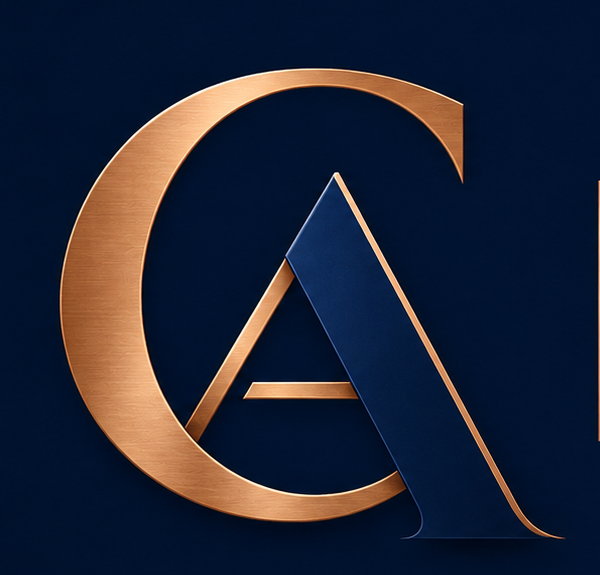
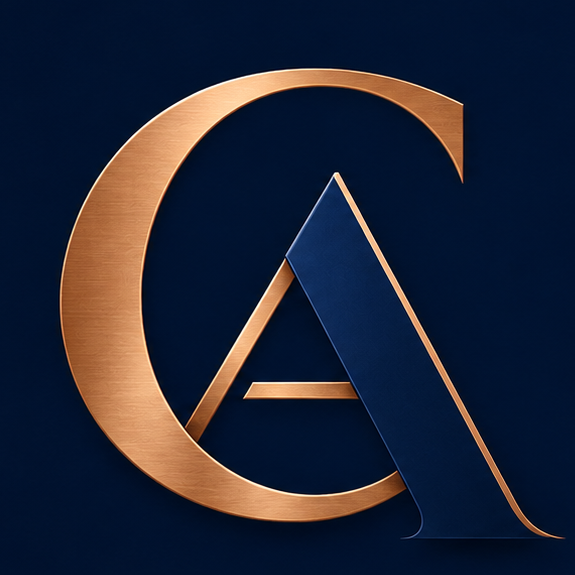
V3 Patch

diff --git a/index.html b/index.html
@@ -1,16 +1,118 @@
-<!doctype html><html lang="en"><head><meta charset="utf-8"><meta name="viewport" content="width=device-width,initial-scale=1"><title>Codex Analytics | Market Scanner</title><link rel="stylesheet" href="styles.css"></head><body>
-<header class="topbar"><div class="brand"><img src="codex-ca.png" class="ca"><span class="brandline"></span><div><img src="codex-word.png" class="word"><div class="analytics">ANALYTICS</div></div></div><div class="pipe"></div><div class="tool"><b>Market Scanner</b><small>Focused research, not clutter</small></div><div class="spacer"></div><div class="budget" id="budgetChip">API 30/30</div><button class="btn ghost" data-nav="settings">Settings</button></header>
-<nav class="nav"><button class="active" data-nav="scan">Scan</button><button data-nav="watchlist">Watchlist <span id="watchCount">0</span></button><button data-nav="history">History</button><button data-nav="settings">Settings</button></nav>
-<main>
-<section id="scanView" class="view active"><div id="builder" class="builder"><div class="hero"><span class="kicker">START A SCAN</span><h1>What are you looking for?</h1><p>Choose a focused strategy. Codex narrows fundamentals first, then performs technical analysis locally to conserve API calls.</p></div>
-<div class="mode-grid"><button class="mode-card" data-mode="best"><b>Best Opportunities</b><span>Balanced quality, value, trend and momentum.</span></button><button class="mode-card featured" data-mode="gap"><b>Gap-Fill Reversal</b><span>Profitable pullbacks approaching an open prior gap-up.</span></button><button class="mode-card" data-mode="early"><b>Early Golden Cross</b><span>Catch SMA50 convergence before the cross occurs.</span></button><button class="mode-card" data-mode="custom"><b>Build My Scan</b><span>Answer a short quiz and let Codex translate your choices.</span></button></div>
-<div id="savedProfiles" class="saved-profiles"></div><div id="quizPanel" class="panel hidden"></div><details class="advanced"><summary>Advanced filters</summary><div class="form-grid">
-<label>Min price <input id="minPrice" type="number" value="2" step=".01"></label><label>Min market cap ($M) <input id="minMarketCap" type="number" value="100"></label><label>Max P/E <input id="maxPE" type="number" placeholder="Any"></label><label>Min avg volume <input id="minAvgVolume" type="number" value="100000"></label><label>Max beta <input id="maxBeta" type="number" step=".1" placeholder="Any"></label><label>Min ROE % <input id="minROE" type="number" step=".1" placeholder="Any"></label><label>Positive FCF <select id="fcf"><option value="any">Not required</option><option value="positive">Required</option></select></label><label>Dividend <select id="dividend"><option value="any">Any</option><option value="yes">Payer only</option></select></label></div></details>
-<div id="scanSummary" class="scan-summary hidden"></div></div>
-<div id="runArea" class="hidden"><div class="results-head"><div><button class="link" id="newScan">← New scan</button><h2 id="resultTitle">Results</h2><p id="statusText"></p></div><div class="actions"><select id="resultGroup"><option value="match">Matches</option><option value="near">Near Matches</option><option value="all">All Analyzed</option></select><button class="btn ghost" id="exportBtn">Export CSV</button></div></div><div class="progress"><span id="progressBar"></span></div><div id="resultCards" class="result-cards"></div></div></section>
-<section id="watchlistView" class="view"><div class="page-title"><span class="kicker">SAVED RESEARCH</span><h1>Watchlist</h1><p>Stocks you want to revisit without rediscovering them from scratch.</p></div><div id="watchlistCards" class="result-cards"></div></section>
-<section id="historyView" class="view"><div class="page-title"><span class="kicker">RECENT ACTIVITY</span><h1>Scan History</h1><p>Your recent scan configurations and match counts are stored locally on this device.</p></div><div id="historyList" class="history-list"></div></section>
-<section id="settingsView" class="view"><div class="page-title"><span class="kicker">SETTINGS</span><h1>Business Quant</h1></div><div class="panel settings"><label>API key <input id="apiKey" type="password" placeholder="Paste your Business Quant key"></label><div class="row"><button class="btn primary" id="saveKey">Save & Test</button><button class="btn ghost" id="clearCache">Clear cached data</button></div><p id="keyStatus" class="muted"></p><hr><h3>Free-tier budget</h3><p>Codex tracks calls made by this browser today. Business Quant may count other calls separately.</p><div class="budget-large" id="budgetLarge"></div></div></section>
-</main>
-<dialog id="detailDialog"><button class="close" id="closeDetail">×</button><div id="detailContent"></div></dialog>
-<script src="api.js"></script><script src="scanner.js"></script><script src="app.js"></script></body></html>
+<!doctype html>
+<html lang="en">
+<head>
+  <meta charset="utf-8">
+  <meta name="viewport" content="width=device-width, initial-scale=1">
+  <meta name="theme-color" content="#041226">
+  <title>Codex Analytics | Market Scanner</title>
+  <!-- External stylesheet plus a complete inline fallback. The inline copy keeps GitHub Pages usable even if CSS is stale/missed. -->
+  <link rel="stylesheet" href="./styles.css?v=4.1.1">
+  <style id="codex-style-fallback">:root{--bg:#041226;--panel:#091a31;--panel2:#102640;--line:#24425e;--text:#f6f0e8;--muted:#aeb7c3;--accent:#c17b3d;--accent2:#e0a568;--ok:#7fc49a;--danger:#d78585;--shadow:0 18px 45px rgba(0,0,0,.34)}*{box-sizing:border-box}body{margin:0;background:radial-gradient(circle at 70% -20%,#17375a 0,transparent 40%),var(--bg);color:var(--text);font:14px/1.45 Inter,Segoe UI,Arial,sans-serif;min-height:100vh}.topbar{height:82px;display:flex;align-items:center;padding:12px 24px;border-bottom:1px solid var(--line);background:rgba(4,18,38,.94);position:sticky;top:0;z-index:10}.brand{display:flex;align-items:center;gap:12px}.ca{width:54px;height:54px;object-fit:contain}.word{width:105px}.brandline{height:50px;width:1px;background:linear-gradient(var(--accent2),var(--accent))}.analytics{font-size:9px;letter-spacing:4px;text-align:center;color:var(--accent2)}.pipe{height:38px;width:1px;background:var(--line);margin:0 18px}.tool{display:flex;flex-direction:column}.tool b{font-size:18px}.tool small,.muted{color:var(--muted)}.spacer{flex:1}.budget,.budget-large{border:1px solid rgba(193,123,61,.5);background:#0c2039;color:var(--accent2);padding:8px 12px;border-radius:999px;margin-right:10px}.budget-large{display:inline-block;font-size:18px}.nav{display:flex;gap:4px;padding:10px 24px;border-bottom:1px solid var(--line);background:#06152a}.nav button{background:none;border:0;color:var(--muted);padding:9px 14px;border-radius:8px;cursor:pointer}.nav button.active{background:var(--panel2);color:var(--text)}main{max-width:1240px;margin:auto;padding:28px}.view{display:none}.view.active{display:block}.hero,.page-title{max-width:760px;margin-bottom:24px}.kicker{color:var(--accent2);font-size:11px;font-weight:800;letter-spacing:2px}h1{font-size:34px;margin:6px 0}h2{margin:4px 0}.hero p,.page-title p{color:var(--muted);font-size:16px}.mode-grid{display:grid;grid-template-columns:repeat(4,1fr);gap:14px}.mode-card{min-height:135px;text-align:left;padding:20px;border-radius:16px;border:1px solid var(--line);background:linear-gradient(145deg,var(--panel),var(--panel2));color:var(--text);cursor:pointer;box-shadow:var(--shadow)}.mode-card:hover,.mode-card.selected{border-color:var(--accent);transform:translateY(-2px)}.mode-card.featured:after{content:'PERSONAL STRATEGY';display:block;margin-top:12px;color:var(--accent2);font-size:9px;letter-spacing:1px}.mode-card b{display:block;font-size:18px;margin-bottom:8px}.mode-card span{color:var(--muted)}.panel,.advanced,.scan-summary{margin-top:18px;background:rgba(9,26,49,.88);border:1px solid var(--line);border-radius:16px;padding:20px}.hidden{display:none!important}.quiz-step{margin-bottom:22px}.quiz-step h3{margin:0 0 10px}.choices{display:flex;gap:8px;flex-wrap:wrap}.choice{border:1px solid var(--line);background:#07182e;color:var(--text);border-radius:10px;padding:10px 13px;cursor:pointer}.choice.on{border-color:var(--accent2);background:#182f49}.form-grid{display:grid;grid-template-columns:repeat(4,1fr);gap:12px;margin-top:14px}label{display:flex;flex-direction:column;gap:6px;color:var(--muted)}input,select{background:#06152a;border:1px solid var(--line);color:var(--text);border-radius:9px;padding:10px;width:100%}.btn{border:0;border-radius:10px;padding:10px 14px;cursor:pointer;font-weight:700}.btn.primary{background:linear-gradient(135deg,var(--accent),var(--accent2));color:#07111f}.btn.ghost{background:var(--panel2);border:1px solid var(--line);color:var(--text)}.link{background:0;border:0;color:var(--accent2);cursor:pointer;padding:0}.scan-summary{display:flex;justify-content:space-between;gap:20px;align-items:center}.summary-tags{display:flex;gap:7px;flex-wrap:wrap}.tag{background:#132c48;border:1px solid var(--line);padding:5px 8px;border-radius:999px;color:#d8e1eb;font-size:12px}.results-head{display:flex;justify-content:space-between;align-items:end;margin-bottom:14px}.actions,.row{display:flex;gap:8px;align-items:center}.progress{height:4px;background:#112b45;border-radius:10px;overflow:hidden;margin-bottom:16px}.progress span{display:block;height:100%;width:0;background:linear-gradient(90deg,var(--accent),var(--accent2))}.result-cards{display:grid;gap:10px}.stock-card{display:grid;grid-template-columns:1.3fr .65fr .8fr .8fr .8fr 1fr auto;align-items:center;gap:12px;padding:14px 16px;border:1px solid var(--line);background:var(--panel);border-radius:14px}.stock-card:hover{border-color:#3a5c7a}.ticker{font-size:18px;font-weight:900}.company{color:var(--muted);font-size:12px}.score{font-size:22px;font-weight:900;color:var(--accent2)}.metric small{display:block;color:var(--muted);font-size:10px;text-transform:uppercase}.metric b{font-size:14px}.pill{border-radius:999px;padding:5px 8px;font-size:11px;display:inline-block}.pill.good{background:#17392d;color:#a7e4bd}.pill.warn{background:#493617;color:#f0cf8d}.watch{font-size:21px;background:0;border:0;color:var(--accent2);cursor:pointer}.history-item{background:var(--panel);border:1px solid var(--line);border-radius:14px;padding:15px;margin-bottom:10px;display:flex;justify-content:space-between}.settings{max-width:680px}.settings hr{border:0;border-top:1px solid var(--line);margin:22px 0}dialog{width:min(930px,94vw);max-height:90vh;overflow:auto;background:var(--panel);color:var(--text);border:1px solid var(--line);border-radius:18px;padding:26px;box-shadow:var(--shadow)}dialog::backdrop{background:rgba(0,0,0,.72)}.close{float:right;border:0;background:0;color:var(--muted);font-size:28px;cursor:pointer}.detail-grid{display:grid;grid-template-columns:repeat(3,1fr);gap:10px}.detail-box{background:#07182e;border:1px solid var(--line);border-radius:12px;padding:12px}.score-grid{display:grid;grid-template-columns:repeat(6,1fr);gap:8px;margin:16px 0}.subscore{background:#07182e;padding:10px;border-radius:10px;text-align:center}.subscore b{display:block;font-size:20px;color:var(--accent2)}.why{background:#0b2038;border-left:3px solid var(--accent);padding:14px;border-radius:8px;margin:15px 0}.checks{display:grid;grid-template-columns:1fr 1fr;gap:6px}.ok{color:var(--ok)}.bad{color:var(--danger)}canvas{width:100%;height:240px;background:#06152a;border:1px solid var(--line);border-radius:12px}.empty{color:var(--muted);padding:35px;text-align:center;border:1px dashed var(--line);border-radius:14px}@media(max-width:900px){.mode-grid{grid-template-columns:1fr 1fr}.form-grid{grid-template-columns:1fr 1fr}.stock-card{grid-template-columns:1fr 1fr 1fr}.stock-card .metric:nth-child(n+5){display:none}.score-grid{grid-template-columns:repeat(3,1fr)}.tool{display:none}}@media(max-width:560px){main{padding:18px}.mode-grid{grid-template-columns:1fr}.topbar{padding:10px 14px}.brand .word,.analytics,.brandline{display:none}.form-grid{grid-template-columns:1fr}.scan-summary,.results-head{align-items:stretch;flex-direction:column}.stock-card{grid-template-columns:1.5fr .7fr .7fr}.budget{font-size:11px}.nav{padding:8px}.detail-grid{grid-template-columns:1fr}.score-grid{grid-template-columns:repeat(2,1fr)}}
+.saved-profiles{display:flex;gap:8px;flex-wrap:wrap;margin:16px 0}.profile-chip{border:1px solid var(--line);background:#07182e;color:var(--text);border-radius:999px;padding:8px 11px;cursor:pointer}.profile-chip:hover{border-color:var(--accent)}
+
+/* v4.1 resilient shell patch */
+html{background:#041226;color-scheme:dark}body:before{content:"";position:fixed;inset:0;pointer-events:none;z-index:-1;background-image:radial-gradient(rgba(224,165,104,.09) 1px,transparent 1px);background-size:22px 22px;mask-image:linear-gradient(to bottom,rgba(0,0,0,.6),transparent 78%)}
+img{max-width:100%;display:block}.brand{min-width:222px;overflow:hidden}.brand .ca{flex:0 0 54px;width:54px!important;height:54px!important;border-radius:8px}.brand .word{width:108px!important;height:auto!important;max-height:28px;object-fit:contain}.topbar{overflow:hidden}.topbar>*{min-width:0}.mode-card,.btn,.choice,.profile-chip,.nav button{font-family:inherit}.mode-card{transition:transform .16s ease,border-color .16s ease,box-shadow .16s ease}.mode-card:hover{box-shadow:0 22px 50px rgba(0,0,0,.4)}.advanced summary{cursor:pointer;font-weight:800;color:var(--text)}.scan-summary strong{font-size:16px}.result-cards{min-height:80px}.stock-card{overflow:hidden}.stock-card>*{min-width:0}.company{white-space:nowrap;overflow:hidden;text-overflow:ellipsis}.settings input{font-family:monospace}.saved-profiles:empty{display:none}.nav span{display:inline-flex;min-width:18px;justify-content:center;border-radius:999px;background:#132c48;padding:1px 5px;font-size:10px}.view{animation:fadeIn .14s ease}@keyframes fadeIn{from{opacity:.3;transform:translateY(2px)}to{opacity:1;transform:none}}
+@media(max-width:720px){.topbar{height:auto;min-height:74px;flex-wrap:wrap;gap:8px}.budget{order:3}.brand{min-width:auto}.pipe{display:none}.nav{overflow-x:auto}.nav button{white-space:nowrap}}
+</style>
+</head>
+<body style="margin:0;background:#041226;color:#f6f0e8;font-family:Inter,'Segoe UI',Arial,sans-serif;min-height:100vh">
+  <header class="topbar">
+    <div class="brand" aria-label="Codex Analytics">
+      <img src="./codex-ca.png?v=4.1.1" class="ca" alt="CA" width="54" height="54">
+      <span class="brandline" aria-hidden="true"></span>
+      <div>
+        <img src="./codex-word.png?v=4.1.1" class="word" alt="Codex" width="108" height="27">
+        <div class="analytics">ANALYTICS</div>
+      </div>
+    </div>
+    <div class="pipe" aria-hidden="true"></div>
+    <div class="tool"><b>Market Scanner</b><small>Focused research, not clutter</small></div>
+    <div class="spacer"></div>
+    <div class="budget" id="budgetChip">API 30/30</div>
+    <button class="btn ghost" data-nav="settings">Settings</button>
+  </header>
+
+  <nav class="nav" aria-label="Primary navigation">
+    <button class="active" data-nav="scan">Scan</button>
+    <button data-nav="watchlist">Watchlist <span id="watchCount">0</span></button>
+    <button data-nav="history">History</button>
+    <button data-nav="settings">Settings</button>
+  </nav>
+
+  <main>
+    <section id="scanView" class="view active">
+      <div id="builder" class="builder">
+        <div class="hero">
+          <span class="kicker">START A SCAN</span>
+          <h1>What are you looking for?</h1>
+          <p>Choose a focused strategy. Codex narrows fundamentals first, then performs technical analysis locally to conserve API calls.</p>
+        </div>
+
+        <div class="mode-grid">
+          <button class="mode-card" data-mode="best"><b>Best Opportunities</b><span>Balanced quality, value, trend and momentum.</span></button>
+          <button class="mode-card featured" data-mode="gap"><b>Gap-Fill Reversal</b><span>Profitable pullbacks approaching an open prior gap-up.</span></button>
+          <button class="mode-card" data-mode="early"><b>Early Golden Cross</b><span>Catch SMA50 convergence before the cross occurs.</span></button>
+          <button class="mode-card" data-mode="custom"><b>Build My Scan</b><span>Answer a short quiz and let Codex translate your choices.</span></button>
+        </div>
+
+        <div id="savedProfiles" class="saved-profiles"></div>
+        <div id="quizPanel" class="panel hidden"></div>
+
+        <details class="advanced">
+          <summary>Advanced filters</summary>
+          <div class="form-grid">
+            <label>Min price <input id="minPrice" type="number" value="2" step=".01"></label>
+            <label>Min market cap ($M) <input id="minMarketCap" type="number" value="100"></label>
+            <label>Max P/E <input id="maxPE" type="number" placeholder="Any"></label>
+            <label>Min avg volume <input id="minAvgVolume" type="number" value="100000"></label>
+            <label>Max beta <input id="maxBeta" type="number" step=".1" placeholder="Any"></label>
+            <label>Min ROE % <input id="minROE" type="number" step=".1" placeholder="Any"></label>
+            <label>Positive FCF <select id="fcf"><option value="any">Not required</option><option value="positive">Required</option></select></label>
+            <label>Dividend <select id="dividend"><option value="any">Any</option><option value="yes">Payer only</option></select></label>
+          </div>
+        </details>
+        <div id="scanSummary" class="scan-summary hidden"></div>
+      </div>
+
+      <div id="runArea" class="hidden">
+        <div class="results-head">
+          <div><button class="link" id="newScan">← New scan</button><h2 id="resultTitle">Results</h2><p id="statusText"></p></div>
+          <div class="actions"><select id="resultGroup"><option value="match">Matches</option><option value="near">Near Matches</option><option value="all">All Analyzed</option></select><button class="btn ghost" id="exportBtn">Export CSV</button></div>
+        </div>
+        <div class="progress"><span id="progressBar"></span></div>
+        <div id="resultCards" class="result-cards"></div>
+      </div>
+    </section>
+
+    <section id="watchlistView" class="view">
+      <div class="page-title"><span class="kicker">SAVED RESEARCH</span><h1>Watchlist</h1><p>Stocks you want to revisit without rediscovering them from scratch.</p></div>
+      <div id="watchlistCards" class="result-cards"></div>
+    </section>
+
+    <section id="historyView" class="view">
+      <div class="page-title"><span class="kicker">RECENT ACTIVITY</span><h1>Scan History</h1><p>Your recent scan configurations and match counts are stored locally on this device.</p></div>
+      <div id="historyList" class="history-list"></div>
+    </section>
+
+    <section id="settingsView" class="view">
+      <div class="page-title"><span class="kicker">SETTINGS</span><h1>Business Quant</h1></div>
+      <div class="panel settings">
+        <label>API key <input id="apiKey" type="password" placeholder="Paste your Business Quant key"></label>
+        <div class="row"><button class="btn primary" id="saveKey">Save &amp; Test</button><button class="btn ghost" id="clearCache">Clear cached data</button></div>
+        <p id="keyStatus" class="muted"></p>
+        <hr>
+        <h3>Free-tier budget</h3>
+        <p>Codex tracks calls made by this browser today. Business Quant may count other calls separately.</p>
+        <div class="budget-large" id="budgetLarge"></div>
+      </div>
+    </section>
+  </main>
+
+  <dialog id="detailDialog"><button class="close" id="closeDetail" aria-label="Close">×</button><div id="detailContent"></div></dialog>
+
+  <script src="./api.js?v=4.1.1" defer></script>
+  <script src="./scanner.js?v=4.1.1" defer></script>
+  <script src="./app.js?v=4.1.1" defer></script>
+</body>
+</html>

diff --git a/styles.css b/styles.css
@@ -1,2 +1,7 @@
 :root{--bg:#041226;--panel:#091a31;--panel2:#102640;--line:#24425e;--text:#f6f0e8;--muted:#aeb7c3;--accent:#c17b3d;--accent2:#e0a568;--ok:#7fc49a;--danger:#d78585;--shadow:0 18px 45px rgba(0,0,0,.34)}*{box-sizing:border-box}body{margin:0;background:radial-gradient(circle at 70% -20%,#17375a 0,transparent 40%),var(--bg);color:var(--text);font:14px/1.45 Inter,Segoe UI,Arial,sans-serif;min-height:100vh}.topbar{height:82px;display:flex;align-items:center;padding:12px 24px;border-bottom:1px solid var(--line);background:rgba(4,18,38,.94);position:sticky;top:0;z-index:10}.brand{display:flex;align-items:center;gap:12px}.ca{width:54px;height:54px;object-fit:contain}.word{width:105px}.brandline{height:50px;width:1px;background:linear-gradient(var(--accent2),var(--accent))}.analytics{font-size:9px;letter-spacing:4px;text-align:center;color:var(--accent2)}.pipe{height:38px;width:1px;background:var(--line);margin:0 18px}.tool{display:flex;flex-direction:column}.tool b{font-size:18px}.tool small,.muted{color:var(--muted)}.spacer{flex:1}.budget,.budget-large{border:1px solid rgba(193,123,61,.5);background:#0c2039;color:var(--accent2);padding:8px 12px;border-radius:999px;margin-right:10px}.budget-large{display:inline-block;font-size:18px}.nav{display:flex;gap:4px;padding:10px 24px;border-bottom:1px solid var(--line);background:#06152a}.nav button{background:none;border:0;color:var(--muted);padding:9px 14px;border-radius:8px;cursor:pointer}.nav button.active{background:var(--panel2);color:var(--text)}main{max-width:1240px;margin:auto;padding:28px}.view{display:none}.view.active{display:block}.hero,.page-title{max-width:760px;margin-bottom:24px}.kicker{color:var(--accent2);font-size:11px;font-weight:800;letter-spacing:2px}h1{font-size:34px;margin:6px 0}h2{margin:4px 0}.hero p,.page-title p{color:var(--muted);font-size:16px}.mode-grid{display:grid;grid-template-columns:repeat(4,1fr);gap:14px}.mode-card{min-height:135px;text-align:left;padding:20px;border-radius:16px;border:1px solid var(--line);background:linear-gradient(145deg,var(--panel),var(--panel2));color:var(--text);cursor:pointer;box-shadow:var(--shadow)}.mode-card:hover,.mode-card.selected{border-color:var(--accent);transform:translateY(-2px)}.mode-card.featured:after{content:'PERSONAL STRATEGY';display:block;margin-top:12px;color:var(--accent2);font-size:9px;letter-spacing:1px}.mode-card b{display:block;font-size:18px;margin-bottom:8px}.mode-card span{color:var(--muted)}.panel,.advanced,.scan-summary{margin-top:18px;background:rgba(9,26,49,.88);border:1px solid var(--line);border-radius:16px;padding:20px}.hidden{display:none!important}.quiz-step{margin-bottom:22px}.quiz-step h3{margin:0 0 10px}.choices{display:flex;gap:8px;flex-wrap:wrap}.choice{border:1px solid var(--line);background:#07182e;color:var(--text);border-radius:10px;padding:10px 13px;cursor:pointer}.choice.on{border-color:var(--accent2);background:#182f49}.form-grid{display:grid;grid-template-columns:repeat(4,1fr);gap:12px;margin-top:14px}label{display:flex;flex-direction:column;gap:6px;color:var(--muted)}input,select{background:#06152a;border:1px solid var(--line);color:var(--text);border-radius:9px;padding:10px;width:100%}.btn{border:0;border-radius:10px;padding:10px 14px;cursor:pointer;font-weight:700}.btn.primary{background:linear-gradient(135deg,var(--accent),var(--accent2));color:#07111f}.btn.ghost{background:var(--panel2);border:1px solid var(--line);color:var(--text)}.link{background:0;border:0;color:var(--accent2);cursor:pointer;padding:0}.scan-summary{display:flex;justify-content:space-between;gap:20px;align-items:center}.summary-tags{display:flex;gap:7px;flex-wrap:wrap}.tag{background:#132c48;border:1px solid var(--line);padding:5px 8px;border-radius:999px;color:#d8e1eb;font-size:12px}.results-head{display:flex;justify-content:space-between;align-items:end;margin-bottom:14px}.actions,.row{display:flex;gap:8px;align-items:center}.progress{height:4px;background:#112b45;border-radius:10px;overflow:hidden;margin-bottom:16px}.progress span{display:block;height:100%;width:0;background:linear-gradient(90deg,var(--accent),var(--accent2))}.result-cards{display:grid;gap:10px}.stock-card{display:grid;grid-template-columns:1.3fr .65fr .8fr .8fr .8fr 1fr auto;align-items:center;gap:12px;padding:14px 16px;border:1px solid var(--line);background:var(--panel);border-radius:14px}.stock-card:hover{border-color:#3a5c7a}.ticker{font-size:18px;font-weight:900}.company{color:var(--muted);font-size:12px}.score{font-size:22px;font-weight:900;color:var(--accent2)}.metric small{display:block;color:var(--muted);font-size:10px;text-transform:uppercase}.metric b{font-size:14px}.pill{border-radius:999px;padding:5px 8px;font-size:11px;display:inline-block}.pill.good{background:#17392d;color:#a7e4bd}.pill.warn{background:#493617;color:#f0cf8d}.watch{font-size:21px;background:0;border:0;color:var(--accent2);cursor:pointer}.history-item{background:var(--panel);border:1px solid var(--line);border-radius:14px;padding:15px;margin-bottom:10px;display:flex;justify-content:space-between}.settings{max-width:680px}.settings hr{border:0;border-top:1px solid var(--line);margin:22px 0}dialog{width:min(930px,94vw);max-height:90vh;overflow:auto;background:var(--panel);color:var(--text);border:1px solid var(--line);border-radius:18px;padding:26px;box-shadow:var(--shadow)}dialog::backdrop{background:rgba(0,0,0,.72)}.close{float:right;border:0;background:0;color:var(--muted);font-size:28px;cursor:pointer}.detail-grid{display:grid;grid-template-columns:repeat(3,1fr);gap:10px}.detail-box{background:#07182e;border:1px solid var(--line);border-radius:12px;padding:12px}.score-grid{display:grid;grid-template-columns:repeat(6,1fr);gap:8px;margin:16px 0}.subscore{background:#07182e;padding:10px;border-radius:10px;text-align:center}.subscore b{display:block;font-size:20px;color:var(--accent2)}.why{background:#0b2038;border-left:3px solid var(--accent);padding:14px;border-radius:8px;margin:15px 0}.checks{display:grid;grid-template-columns:1fr 1fr;gap:6px}.ok{color:var(--ok)}.bad{color:var(--danger)}canvas{width:100%;height:240px;background:#06152a;border:1px solid var(--line);border-radius:12px}.empty{color:var(--muted);padding:35px;text-align:center;border:1px dashed var(--line);border-radius:14px}@media(max-width:900px){.mode-grid{grid-template-columns:1fr 1fr}.form-grid{grid-template-columns:1fr 1fr}.stock-card{grid-template-columns:1fr 1fr 1fr}.stock-card .metric:nth-child(n+5){display:none}.score-grid{grid-template-columns:repeat(3,1fr)}.tool{display:none}}@media(max-width:560px){main{padding:18px}.mode-grid{grid-template-columns:1fr}.topbar{padding:10px 14px}.brand .word,.analytics,.brandline{display:none}.form-grid{grid-template-columns:1fr}.scan-summary,.results-head{align-items:stretch;flex-direction:column}.stock-card{grid-template-columns:1.5fr .7fr .7fr}.budget{font-size:11px}.nav{padding:8px}.detail-grid{grid-template-columns:1fr}.score-grid{grid-template-columns:repeat(2,1fr)}}
 .saved-profiles{display:flex;gap:8px;flex-wrap:wrap;margin:16px 0}.profile-chip{border:1px solid var(--line);background:#07182e;color:var(--text);border-radius:999px;padding:8px 11px;cursor:pointer}.profile-chip:hover{border-color:var(--accent)}
+
+/* v4.1 resilient shell patch */
+html{background:#041226;color-scheme:dark}body:before{content:"";position:fixed;inset:0;pointer-events:none;z-index:-1;background-image:radial-gradient(rgba(224,165,104,.09) 1px,transparent 1px);background-size:22px 22px;mask-image:linear-gradient(to bottom,rgba(0,0,0,.6),transparent 78%)}
+img{max-width:100%;display:block}.brand{min-width:222px;overflow:hidden}.brand .ca{flex:0 0 54px;width:54px!important;height:54px!important;border-radius:8px}.brand .word{width:108px!important;height:auto!important;max-height:28px;object-fit:contain}.topbar{overflow:hidden}.topbar>*{min-width:0}.mode-card,.btn,.choice,.profile-chip,.nav button{font-family:inherit}.mode-card{transition:transform .16s ease,border-color .16s ease,box-shadow .16s ease}.mode-card:hover{box-shadow:0 22px 50px rgba(0,0,0,.4)}.advanced summary{cursor:pointer;font-weight:800;color:var(--text)}.scan-summary strong{font-size:16px}.result-cards{min-height:80px}.stock-card{overflow:hidden}.stock-card>*{min-width:0}.company{white-space:nowrap;overflow:hidden;text-overflow:ellipsis}.settings input{font-family:monospace}.saved-profiles:empty{display:none}.nav span{display:inline-flex;min-width:18px;justify-content:center;border-radius:999px;background:#132c48;padding:1px 5px;font-size:10px}.view{animation:fadeIn .14s ease}@keyframes fadeIn{from{opacity:.3;transform:translateY(2px)}to{opacity:1;transform:none}}
+@media(max-width:720px){.topbar{height:auto;min-height:74px;flex-wrap:wrap;gap:8px}.budget{order:3}.brand{min-width:auto}.pipe{display:none}.nav{overflow-x:auto}.nav button{white-space:nowrap}}

diff --git a/README.md b/README.md
@@ -1,61 +1,23 @@
-# Codex Analytics Market Scanner v4
+# Codex Analytics Market Scanner v4.1.1 — Resilient UI Patch
 
-A static GitHub Pages stock research scanner using Business Quant for market/fundamental/history data and local browser calculations for technical analysis.
+This package is a full replacement for the previous v4 repository files.
 
-## What changed in v4
+## What this patch fixes
+- Restores the Codex dark navy / bronze visual shell and dotted background.
+- Constrains the CA and CODEX header artwork so images cannot expand to intrinsic size.
+- Crops the stray bronze edge artifact from the CA artwork.
+- Adds a complete inline CSS fallback inside `index.html` while retaining `styles.css` as the normal stylesheet. If GitHub Pages serves a stale/missing stylesheet, the page remains fully styled.
+- Uses explicit `./` asset paths and cache-busting version parameters.
+- Keeps the v4 scanner logic: four scan modes, quiz builder, saved profiles, API-budget tracking/caching, Gap-Fill Reversal, Early Golden Cross, RSI/MACD analysis, subscores, near matches, watchlist, history and CSV export.
 
-- Simplified four-mode start screen:
-  - Best Opportunities
-  - Gap-Fill Reversal
-  - Early Golden Cross
-  - Build My Scan
-- Quiz-guided filtering instead of exposing every technical control.
-- Business Quant free-tier budget tracker (30 calls/day as documented when this build was designed).
-- Local caching:
-  - Universe: 24 hours
-  - Screener metadata: 7 days
-  - Quote batches: current browser session / up to 12 hours
-- Fundamental pre-screen before historical downloads.
-- Gap-Fill Reversal engine:
-  - positive net income required
-  - prior bullish gap-up
-  - configurable age/range
-  - open/unfilled gap detection
-  - downtrend/pullback confirmation
-  - RSI recovery
-  - MACD improvement/crossover
-  - optional technical confirmations
-- Early Golden Cross only (no regular Golden Cross preset): SMA50 below but rising toward SMA200 with narrowing distance.
-- Wilder-style RSI(14).
-- Correctly aligned MACD 12/26/9 calculation.
-- Optional confirmations calculated locally: RSI bullish divergence, Bollinger reversal, unusual volume, higher low, bullish engulfing, SMA20 reclaim, MACD crossover, Early Golden Cross.
-- Strategy-aware Codex subscores: Quality, Value, Trend, Momentum, Reversal, Risk.
-- Matches / Near Matches / All Analyzed.
-- “Why this matched” detail explanation.
-- Compact price chart with SMA20/SMA50/SMA200 and gap-zone shading.
-- Local watchlist.
-- Local scan history.
-- Saved scan profile storage foundation.
-- CSV export.
-- ROE metadata aliases include `Return on Equity (Yr)` / `ROE (Yr)` rather than a generic ROI field.
+## Deploy
+1. Delete/replace the old app files in the repository root.
+2. Upload **all** files from this package to that same root.
+3. Commit the changes.
+4. Confirm GitHub Settings → Pages is still publishing from `main` and `/(root)`.
+5. After GitHub finishes deploying, open the site and perform one hard refresh (`Ctrl+F5` on Windows).
 
-## Deploy to GitHub Pages
+Do not upload only `index.html`; the JS and image assets in this package belong together.
 
-1. Create or open your GitHub repository.
-2. Replace the existing app files with everything in this ZIP.
-3. Commit/push to the `main` branch.
-4. In GitHub: **Settings → Pages → Deploy from a branch → main → /(root)**.
-5. Open the Pages URL.
-6. Go to **Settings**, enter your Business Quant API key, and click **Save & Test**.
-
-## API notes
-
-The API key is stored only in browser localStorage by this static build. Do not commit a key into the repository.
-
-If Business Quant's own direct endpoint rejects your key as invalid, the app cannot correct that account-side problem. If a direct endpoint works but the app reports “Failed to fetch,” browser CORS may require a proxy architecture.
-
-The on-screen API count tracks calls made by this browser. Business Quant remains the authority for actual quota usage.
-
-## Research disclaimer
-
-Codex scores and technical detections are research heuristics, not investment recommendations or validated predictive models. Confirm market data and any trade decision independently.
+## API note
+Business Quant must accept the API key at its own endpoint before the scanner can retrieve live data. The UI will still load correctly without a working API key.
